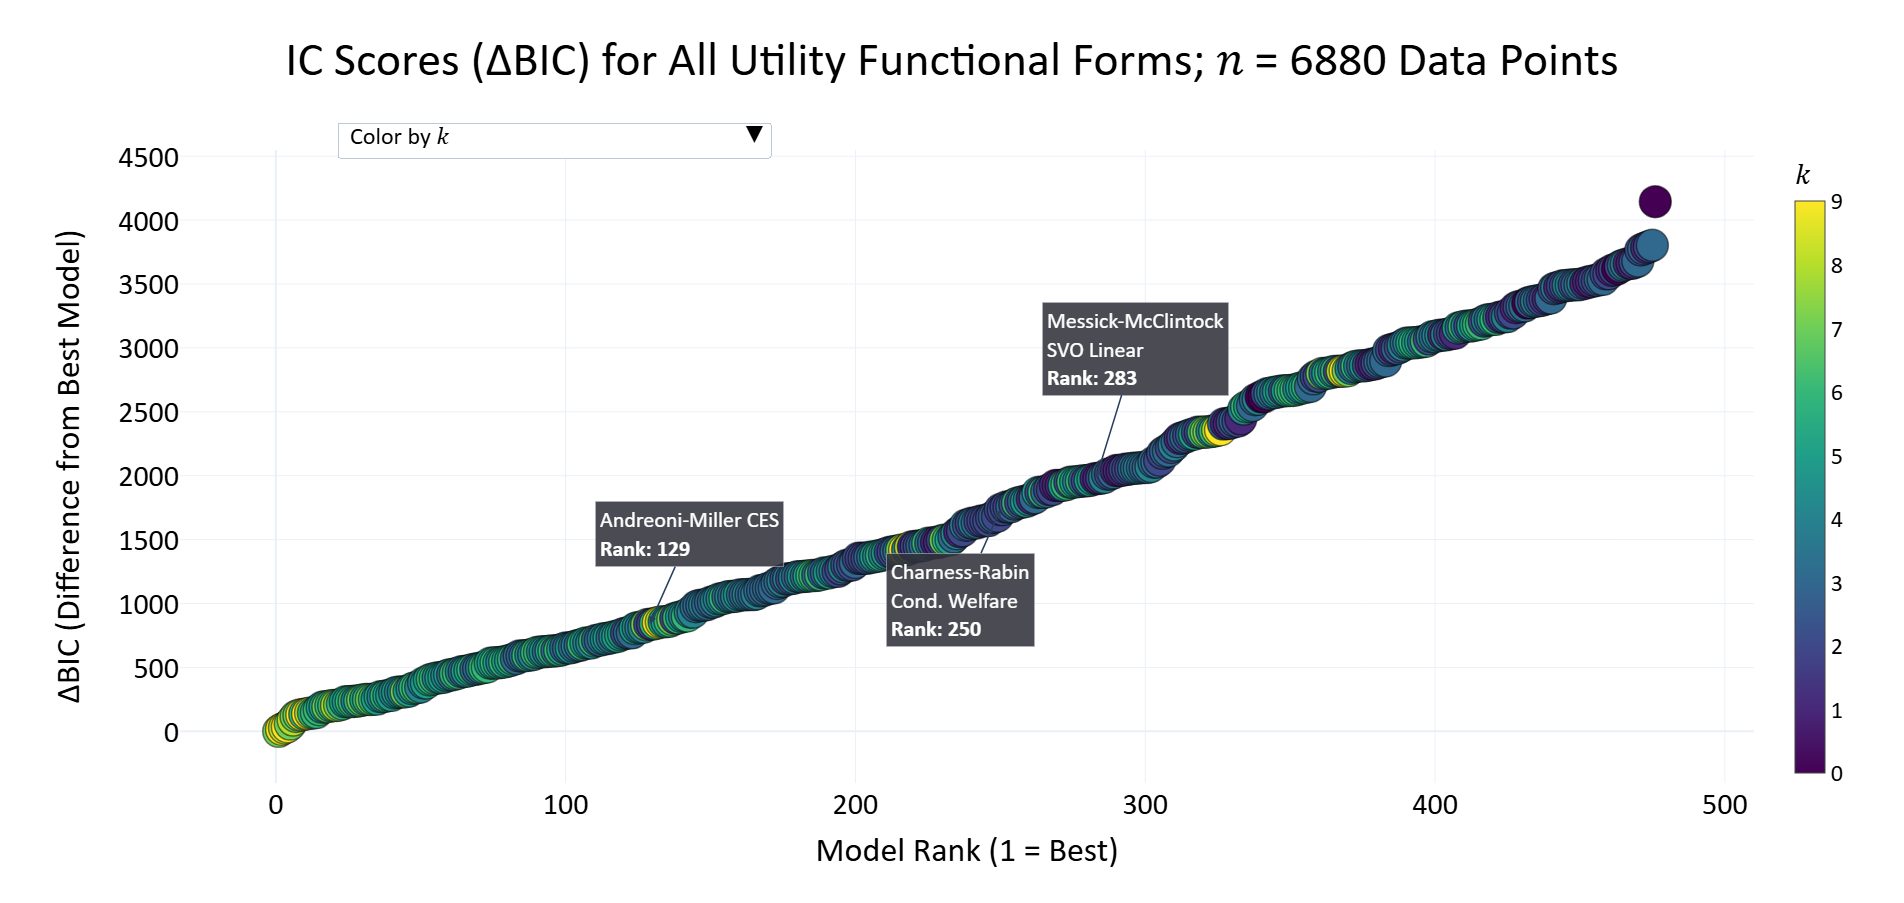
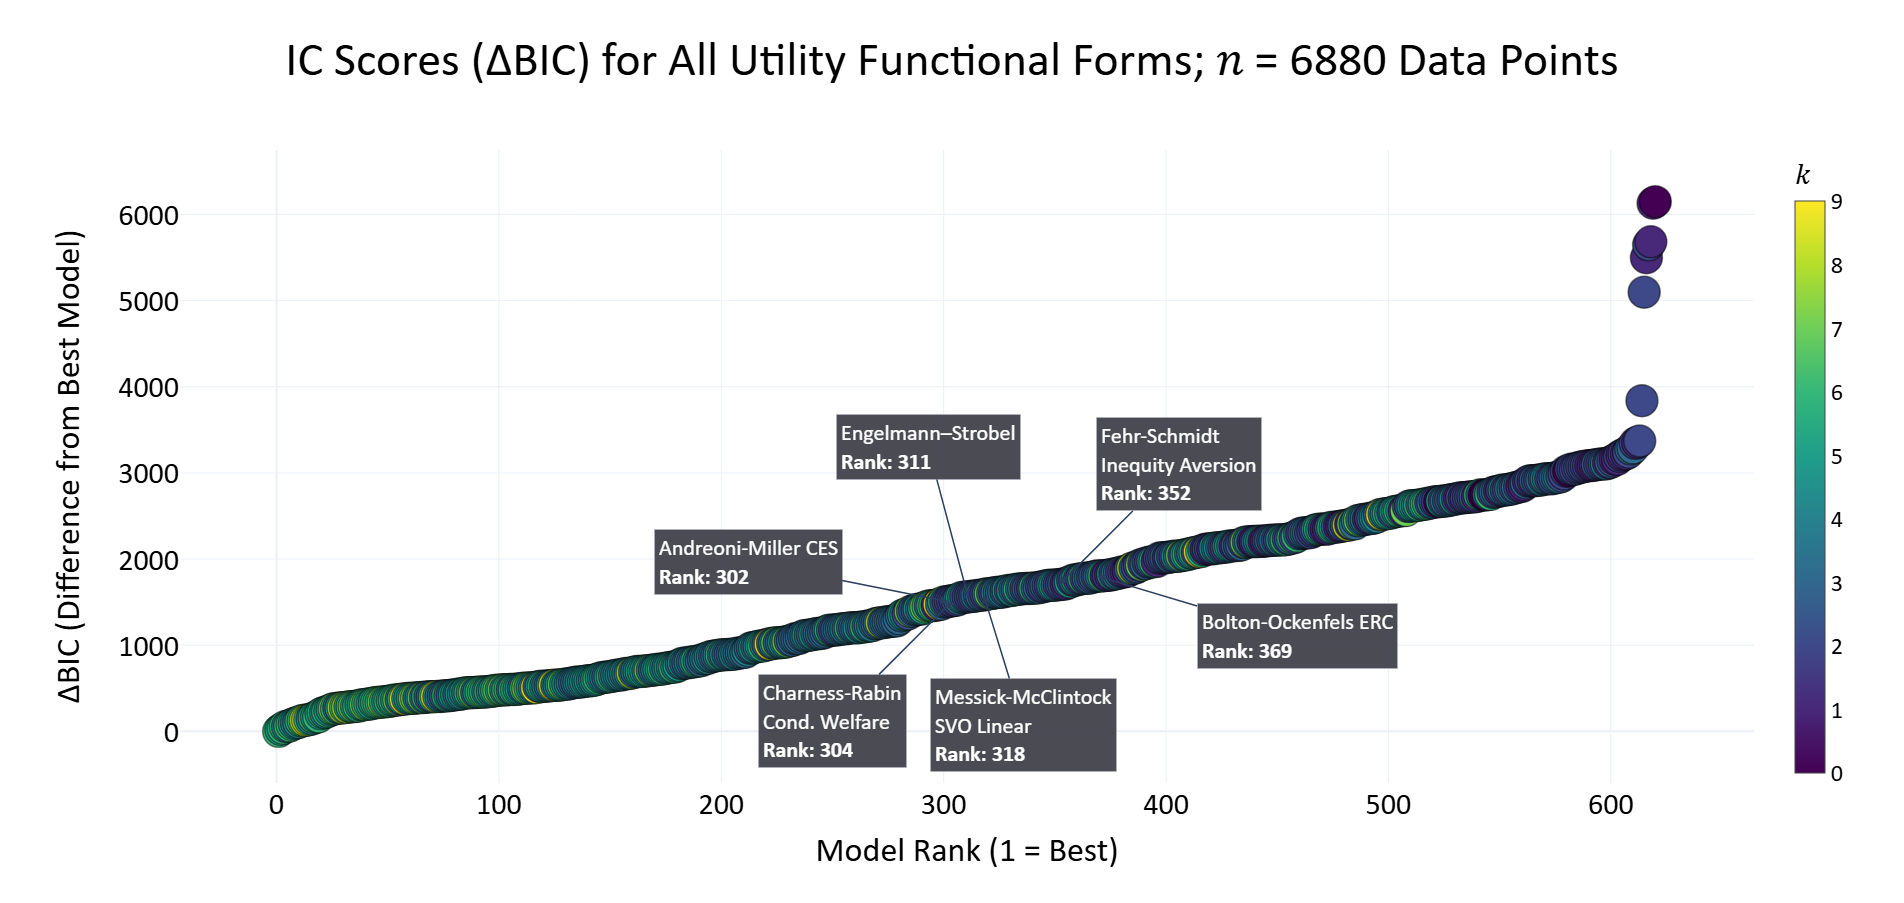
About to change utility() to handle ref dep wrapped by exponent.

diff --git a/main.py b/main.py
@@ -24,6 +24,61 @@ run_code_settings: RunCodeSettings = {
 def main():
     """Execute main code."""
 
+    # model_nesting_adjacency_matrices(
+    #     general_settings=general_settings, 
+    #     utility_settings=utility_settings,
+    #     file_paths=file_paths, 
+    #     create_new_file=True,
+    #     equation_form=True, 
+    # )
+    # gnrl.summarize_nesting_relationship_counts(
+    #     model_nesting_adjacency_matrices=model_nesting_adjacency_matrices, 
+    #     general_settings=general_settings, 
+    #     utility_settings=utility_settings, 
+    #     create_new_file=True,
+    #     file_paths=file_paths,
+    # )
+    # gnrl.equation_to_settings(
+    #     equation_function=build_utility_equation, 
+    #     utility_settings=utility_settings,
+    #     file_paths=file_paths, 
+    # )
+    # gnrl.test_utility_functions(build_utility_equation=build_utility_equation,
+    #                             general_settings=general_settings,
+    #                             utility_settings=utility_settings,
+    #                             setting_to_flip='include_social_comparison')
+
+    # verify_same_inputs_same_outputs_for_children_and_parents(
+    #     general_settings=general_settings,
+    #     utility_settings=utility_settings,
+    #     player_role_to_fit="chooser",
+    #     numeric_tolerance=1e-3,
+    #     file_paths=file_paths,
+    #     create_new_file=True,
+    #     param_bds=param_bds,
+    #     fit_for_n_players=1,
+    #     random_seed=None,
+    #     verbose=True,
+    # )
+
+    # run_child_parent_probability_equivalence_smoketest(
+    #     utility_settings=utility_settings,
+    #     file_paths=file_paths,
+    #     param_bds=param_bds,
+    #     rand_payoff_idx=True,
+    #     random_seed=None,
+    #     tolerance=1e-12,
+    #     verbose=True,
+    #     n_trials=12,
+    # )
+
+    verify_utility_vs_string_equation(
+        utility_function=utility, utility_function_str=build_utility_equation,
+        utility_settings=utility_settings, param_bds=param_bds, n_games=625,
+        random_seed=None, exhaustive_if_large=True, file_paths=file_paths,
+        comparison_tol=1e-6, decimals=6, verbose=True,
+    )
+    exit()
     "Apply master random seed when reproducibility mode is enabled."
     _master_seed = general_settings.get('random_seeds', {}).get('seed', None)
     if _master_seed is not None:
@@ -44,33 +99,12 @@ def main():
     _registry_path   = os.path.join(str(file_paths["processed"]), "all_utility_functions.csv")
     _redundancy_path = os.path.join(str(file_paths["processed"]), "redundant_utility_functions.csv")
 
-    if not os.path.exists(_registry_path):
+    if not os.path.exists(_registry_path) or not os.path.exists(_redundancy_path):
         print("Registry absent — bootstrapping core files from scratch...")
 
         "Verifying that there are no nesting violations is an important first step"
         run_code_settings['run_model_nesting_violation_analysis'] = True
 
-        model_nesting_adjacency_matrices(
-            general_settings=general_settings,
-            utility_settings=utility_settings,
-            file_paths=file_paths,
-            create_new_file=False,
-        )
-        gnrl.generate_utility_settings(
-            build_equation_function=build_utility_equation,
-            utility_settings=utility_settings,
-            general_settings=general_settings,
-            file_paths=file_paths,
-            create_new_file=True,
-            sort_by_k=True,
-        )
-
-    "AMPD, Hamming, and behavioral redundancy are computed here — before any IC run — so the"
-    "model universe is fully verified before fitting begins. Each is idempotent with"
-    "create_new_file=False: a cache hit is instant; only absent files trigger real computation."
-    "The redundancy report regenerates whenever it is missing so that is_valid_utility_settings"
-    "changes (e.g. pruning inert reference_dependent_utility models) are caught immediately."
-    if not os.path.exists(_redundancy_path):
         compute_ampd_matrix(
             general_settings=general_settings,
             file_paths=file_paths,
@@ -91,6 +125,20 @@ def main():
             file_paths=file_paths,
             param_bds=param_bds,
         )
+        model_nesting_adjacency_matrices(
+            general_settings=general_settings,
+            utility_settings=utility_settings,
+            file_paths=file_paths,
+            create_new_file=True,
+        )
+        gnrl.generate_utility_settings(
+            build_equation_function=build_utility_equation,
+            utility_settings=utility_settings,
+            general_settings=general_settings,
+            file_paths=file_paths,
+            create_new_file=True,
+            sort_by_k=True,
+        )
 
     if run_code_settings['run_model_nesting_violation_analysis']:
 
@@ -98,6 +146,7 @@ def main():
             general_settings=general_settings, 
             utility_settings=utility_settings,
             file_paths=file_paths, 
+            create_new_file=False,
             equation_form=True, 
         )
         gnrl.summarize_nesting_relationship_counts(

diff --git a/analysis.py b/analysis.py
@@ -3221,7 +3221,7 @@ def verify_same_inputs_same_outputs_for_children_and_parents(general_settings: d
 
     Arguments:
         • general_settings: Global settings dict (experiment_num, softmax_temperature, etc.).
-        • file_paths: File path mapping (must include 'bic_aic' and 'file_names' → 'information_criterion').
+        • file_paths: File path mapping (must include 'processed' for the model registry and 'bic_aic' for the output CSV).
         • param_bds: The global ParameterBounds with all keys (means and _std).
         • utility_settings: The canonical utility settings dict; flag order is derived from its keys.
         • player_role_to_fit: 'predictor' (default) or 'chooser'.
@@ -3489,8 +3489,10 @@ def verify_same_inputs_same_outputs_for_children_and_parents(general_settings: d
         all_pairs: list[dict[str, Any]] = []
 
         "Iterates children in ascending k so checks move from simpler to richer models."
+        "BIC/loss are present when IC results have been merged in; sort by whatever is available."
         if 'k_params' in ic_dataframe.columns:
-            ic_dataframe_sorted = ic_dataframe.sort_values(['k_params', 'BIC', 'loss'], ascending=[True, True, True])
+            sort_columns = ['k_params'] + [col for col in ('BIC', 'loss') if col in ic_dataframe.columns]
+            ic_dataframe_sorted = ic_dataframe.sort_values(sort_columns, ascending=[True] * len(sort_columns))
         else:
             ic_dataframe_sorted = ic_dataframe.copy()
 
@@ -3529,12 +3531,12 @@ def verify_same_inputs_same_outputs_for_children_and_parents(general_settings: d
 
         return all_pairs
 
-    "Load the IC table"
-    ic_path = os.path.join(file_paths["bic_aic"], file_paths["file_names"]["information_criterion"])
-    ic_dataframe = pd.read_csv(ic_path)
-    "Migrate IC CSVs written before the ea8bb43 single→uniform rename so row_to_tuple can find the column."
-    if 'single_exponential_parameter' in ic_dataframe.columns and 'uniform_exponential_parameter' not in ic_dataframe.columns:
-        ic_dataframe = ic_dataframe.rename(columns={'single_exponential_parameter': 'uniform_exponential_parameter'})
+    "Load the model universe from the canonical registry — source of truth for valid models,"
+    "independent of IC results so this function runs correctly before any IC analysis has run."
+    ic_dataframe = gnrl.all_utility_functions_dataframe(
+        file_paths=file_paths,
+        utility_settings=utility_settings,
+    )
 
     general_settings = copy.deepcopy(general_settings)
     general_settings['confidence_weighted'] = False

diff --git a/config.py b/config.py
@@ -260,8 +260,8 @@ class RunCodeSettings(TypedDict):
     run_information_criterion_analysis: bool
     run_model_nesting_violation_analysis: bool
     run_parameter_distribution_results: bool
-    run_inequality_aversion_analysis: bool
     run_individual_architecture_analysis: bool
+    run_inequality_aversion_analysis: bool
     run_model_recovery_simulation: bool
     run_param_recovery_analysis: bool
 
